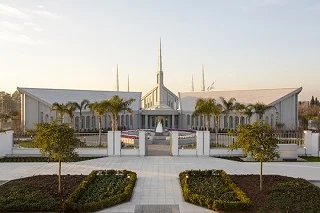
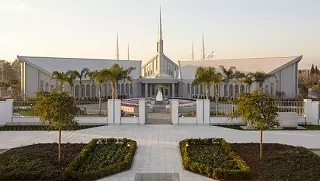
adding webp images

diff --git a/final-project/index.html b/final-project/index.html
@@ -31,7 +31,7 @@
 <!-- HEADER HERE -->
 	<header >
         <section class="h-box">
-            <img loading="lazy" src='images/temple-logo-1.jpg' alt="Logo-img">
+            <img loading="lazy" src='images/temple-logo-1.webp' alt="Logo-img">
             <p>Welcome to Temple Inn</p>
             <img loading="lazy" src='images/facebook-logo.jpg' alt="Logo-img">
             <img loading="lazy" src='images/instagram-logo.jpg' alt="Logo-img">
@@ -39,10 +39,10 @@
         </section>
         <section class="h-grid">
           <picture>
-            <source media="(max-width: 320px)" srcset="images/buenos-aires-320.jpg">
-            <source media="(max-width: 540px)" srcset="images/buenos-aires-540.jpg">
-            <source media="(max-width: 720px)" srcset="images/buenos-aires-720.jpg">
-            <img loading="lazy" src="images/buenos-aires.jpg" alt="Buenos Aires temple front view">
+            <source media="(max-width: 320px)" srcset="images/buenos-aires-320.webp">
+            <source media="(max-width: 540px)" srcset="images/buenos-aires-540.webp">
+            <source media="(max-width: 720px)" srcset="images/buenos-aires-720.webp">
+            <img loading="lazy" src="images/buenos-aires-720.webp" alt="Buenos Aires temple front view">
           </picture>
           <h1>&#126;Temple Inn&#126;</h1>
         </section>
@@ -73,9 +73,9 @@
     <main class="main-grid">
         <div class="hero-box">
           <picture>
-            <source media="(max-width: 320px)" srcset="images/trujillo-peru-temple-320px.jpg">
-            <source media="(max-width: 540px)" srcset="images/trujillo-peru-temple-540px.jpg">
-            <img loading="lazy" src="images/trujillo-peru-temple-540px.jpg" alt="Trujillo temple front view">
+            <source media="(max-width: 320px)" srcset="images/trujillo-peru-temple-320px.webp">
+            <source media="(max-width: 540px)" srcset="images/trujillo-peru-temple-540px.webp">
+            <img loading="lazy" src="images/trujillo-peru-temple-540px.webp" alt="Trujillo temple front view">
           </picture>
           <div class="hero-call">
             <button>&lAarr;</button>
@@ -131,9 +131,9 @@
 
         <section class="event">
           <picture>
-            <source media="(max-width: 320px)" srcset="images/cochabamba-bolivia-temple-320px.jpg">
-            <source media="(max-width: 540px)" srcset="images/cochabamba-bolivia-temple-540px.jpg">
-            <img loading="lazy" src="images/cochabamba-bolivia-temple-540px.jpg" alt="Cochabamba temple front view">
+            <source media="(max-width: 320px)" srcset="images/cochabamba-bolivia-temple-320px.webp">
+            <source media="(max-width: 540px)" srcset="images/cochabamba-bolivia-temple-540px.webp">
+            <img loading="lazy" src="images/cochabamba-bolivia-temple-540px.webp" alt="Cochabamba temple front view">
           </picture>
           <p>Come and join<br>
           Cochabamba Temple<br>
@@ -142,36 +142,36 @@
         
         <section class="temples">
           <picture>
-            <source media="(max-width: 320px)" srcset="images/mexico-city-temple-320px.jpg">
-            <source media="(max-width: 540px)" srcset="images/mexico-city-temple-540px.jpg">
-            <img loading="lazy" src="images/mexico-city-temple-540px.jpg" alt="Cochabamba temple front view">
+            <source media="(max-width: 320px)" srcset="images/mexico-city-temple-320px.webp">
+            <source media="(max-width: 540px)" srcset="images/mexico-city-temple-540px.webp">
+            <img loading="lazy" src="images/mexico-city-temple-540px.webp" alt="Cochabamba temple front view">
           </picture>
           <div><button onclick="window.location.href='temples.html';">&#126;Temples&#126;</button></div>
         </section>
 
         <section class="services">
           <picture>
-            <source media="(max-width: 320px)" srcset="images/hotel-service-320px.jpg">
-            <source media="(max-width: 540px)" srcset="images/hotel-service-540px.jpg">
-            <img loading="lazy" src="images/hotel-service-540px.jpg" alt="women walking in a hall room">
+            <source media="(max-width: 320px)" srcset="images/hotel-service-320px.webp">
+            <source media="(max-width: 540px)" srcset="images/hotel-service-540px.webp">
+            <img loading="lazy" src="images/hotel-service-540px.webp" alt="women walking in a hall room">
           </picture>
           <div><button onclick="window.location.href='services.html';">&#126;Services&#126;</button></div>
         </section>
 
         <section class="receptions">
           <picture>
-            <source media="(max-width: 320px)" srcset="images/reception-320px.jpg">
-            <source media="(max-width: 540px)" srcset="images/reception-540px.jpg">
-            <img loading="lazy" src="images/reception-540px.jpg" alt="a reception hall ready to a wedding">
+            <source media="(max-width: 320px)" srcset="images/reception-320px.webp">
+            <source media="(max-width: 540px)" srcset="images/reception-540px.webp">
+            <img loading="lazy" src="images/reception-540px.webp" alt="a reception hall ready to a wedding">
           </picture>
           <div><button onclick="window.location.href='reception.html';">&#126;Receptions&#126;</button></div>
         </section>
         
         <section class="missionaries">
           <picture>
-            <source media="(max-width: 320px)" srcset="images/missionaries-320px.jpg">
-            <source media="(max-width: 540px)" srcset="images/missionaries-540px.jpg">
-            <img loading="lazy" src="images/missionaries-540px.jpg" alt="missionaries talking with families">
+            <source media="(max-width: 320px)" srcset="images/missionaries-320px.webp">
+            <source media="(max-width: 540px)" srcset="images/missionaries-540px.webp">
+            <img loading="lazy" src="images/missionaries-540px.webp" alt="missionaries talking with families">
           </picture>
           <div><button onclick="window.location.href='missionaries.html';">&#126;Missionaries&#126;</button></div>
         </section>
